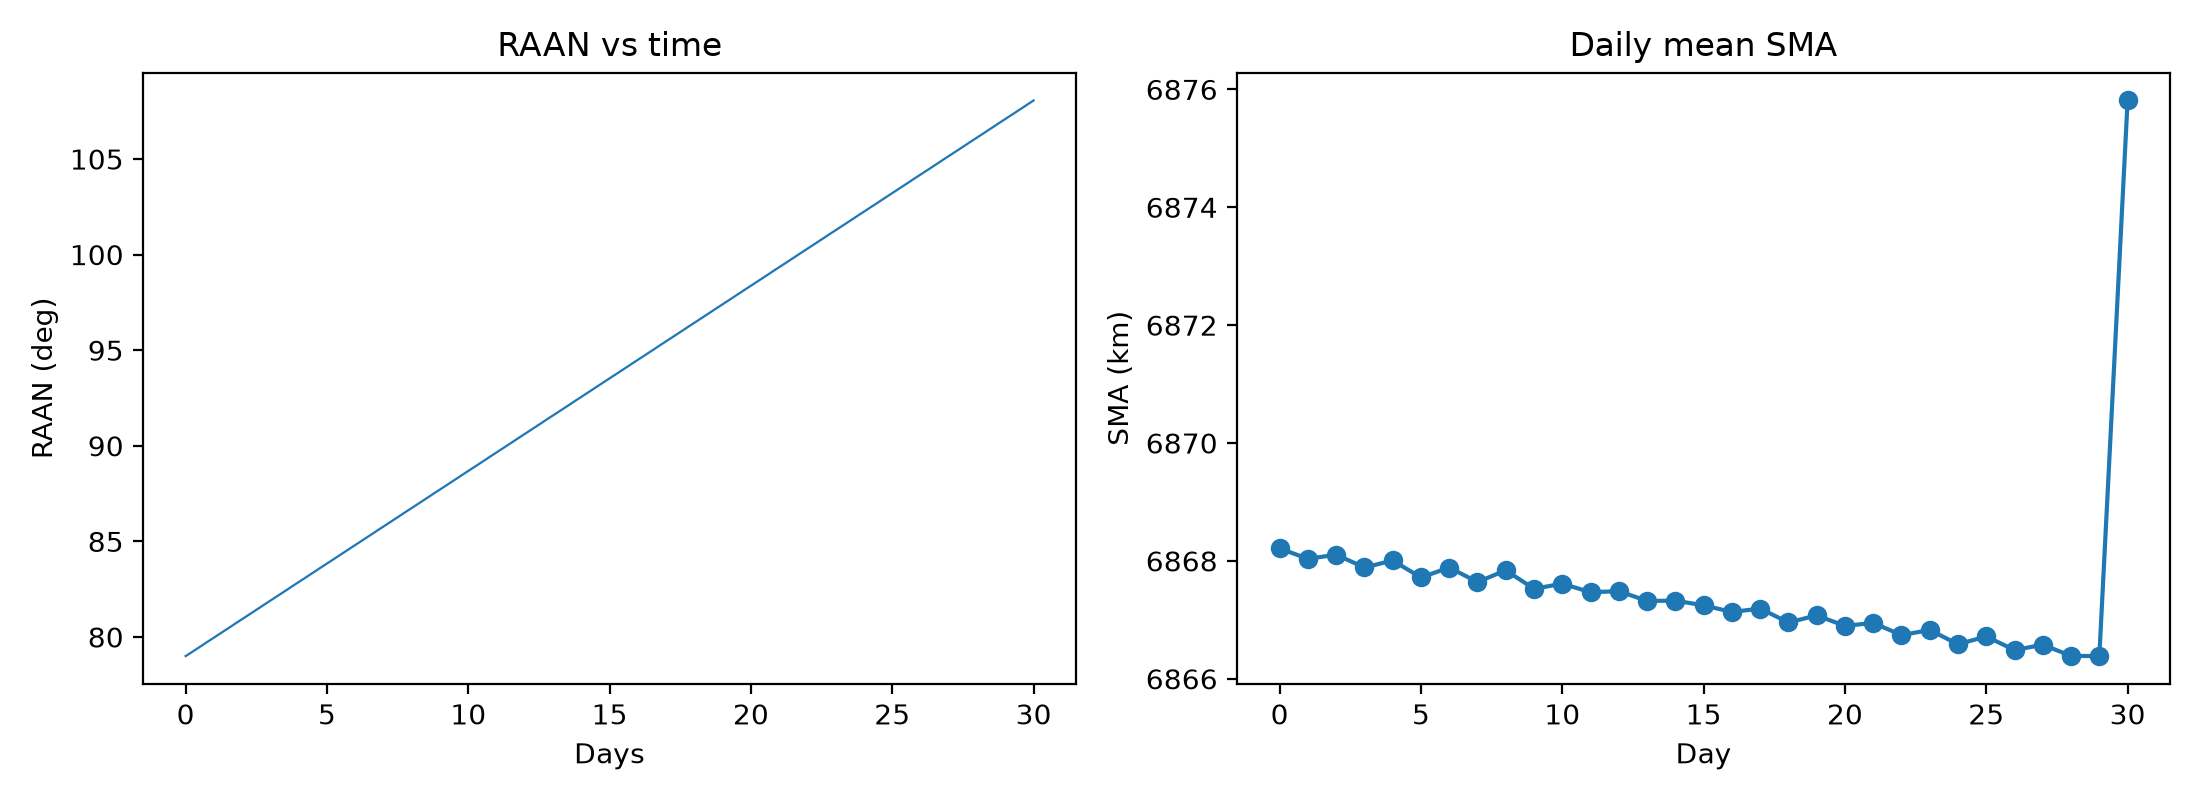
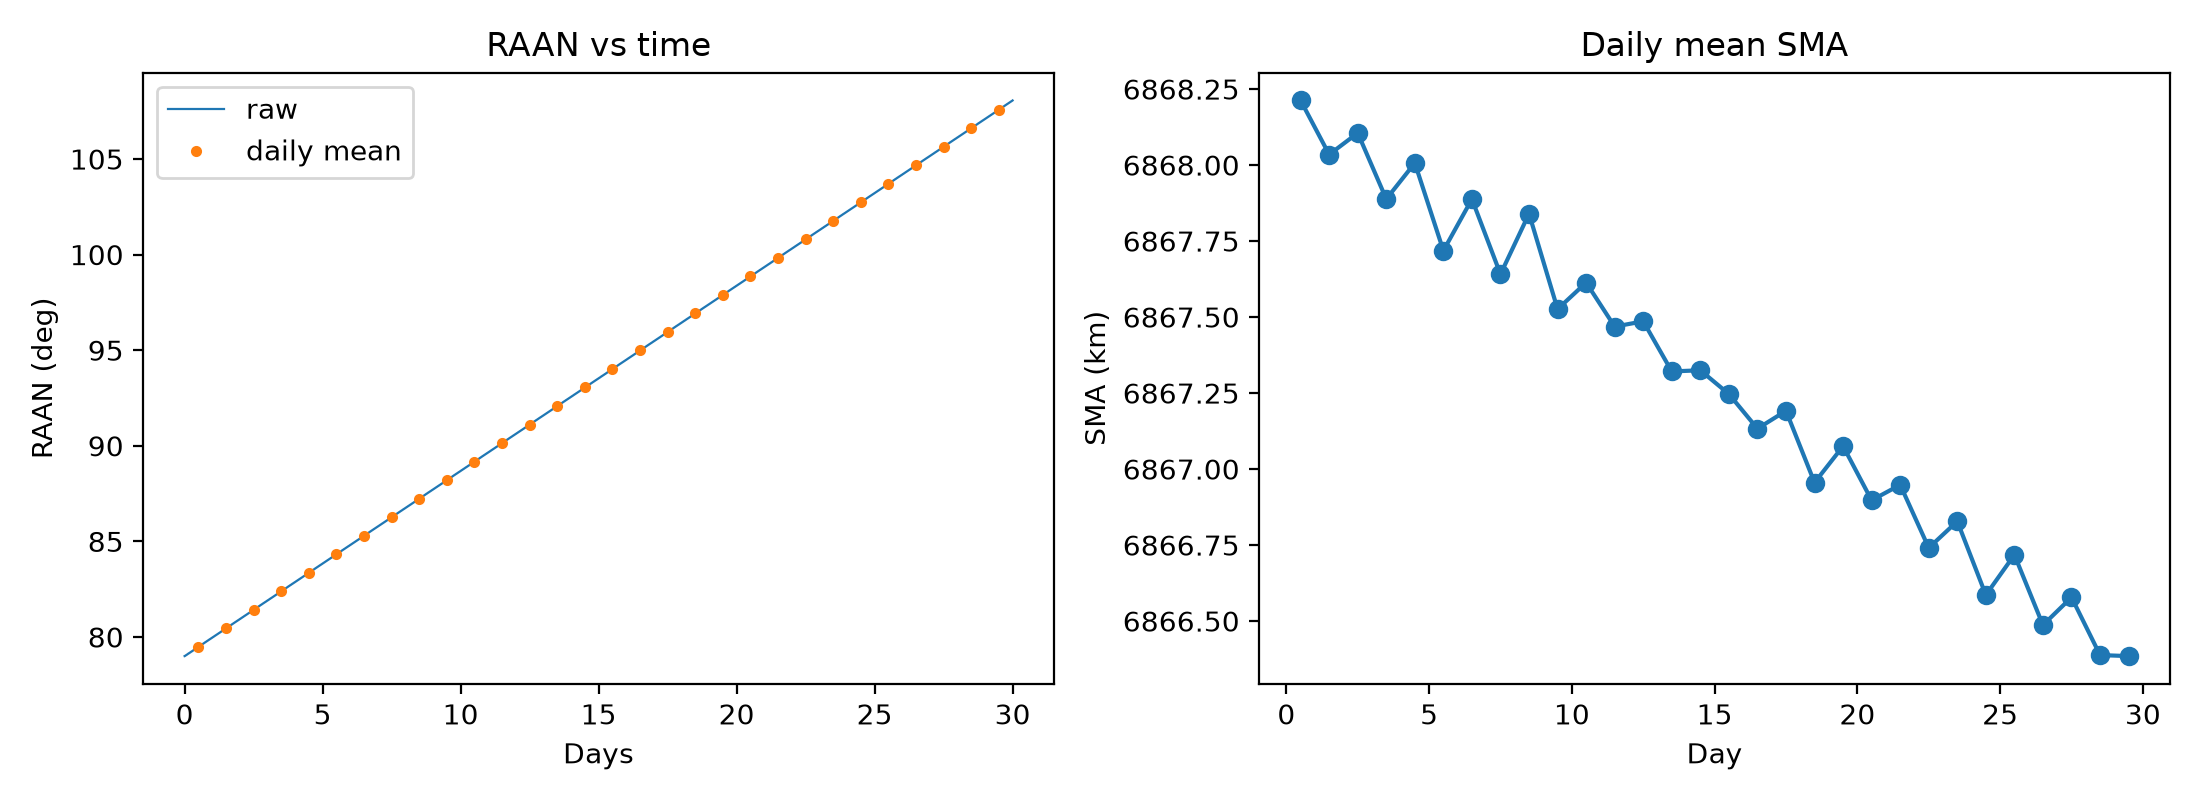
Add 30-day results and eclipse analysis

diff --git a/src/plot_results.py b/src/plot_results.py
@@ -1,17 +1,23 @@
 import pandas as pd, numpy as np, matplotlib.pyplot as plt
+
 df = pd.read_csv('results/orbit_report.txt', sep=r'\s+')
 df.columns = ['days','alt','raan','sma','inc','ecc']
 
-slope, _ = np.polyfit(df.days, df.raan, 1)
-print('RAAN drift (deg/day):', round(slope, 4))      # expect about 0.985
-print('RAAN at end:', round(df.raan.iloc[-1], 2))    # expect about 108.6
+d = df[df.days < 30]                          # full days only
+dd = d.groupby(d.days.astype(int)).mean()     # one row per day
+t = dd.index + 0.5                            # middle of each day
 
-daily = df.groupby(df.days.astype(int)).sma.mean()   # one value per day
-print('SMA lost in 30 days (km):', round(daily.iloc[0] - daily.iloc[-1], 2))
+raan_rate, _ = np.polyfit(t, dd.raan, 1)
+sma_rate, _ = np.polyfit(t, dd.sma, 1)
+
+print('RAAN drift from daily means (deg/day):', round(raan_rate, 4))   # ideal sun-sync: about 0.985
+print('RAAN at end:', round(df.raan.iloc[-1], 2))
+print('SMA change per day (km):', round(sma_rate, 3), '| over 30 days:', round(30*sma_rate, 2))
 
 fig, ax = plt.subplots(1, 2, figsize=(11, 4))
-ax[0].plot(df.days, df.raan, lw=0.8); ax[0].set_title('RAAN vs time')
-ax[0].set_xlabel('Days'); ax[0].set_ylabel('RAAN (deg)')
-ax[1].plot(daily.index, daily.values, marker='o'); ax[1].set_title('Daily mean SMA')
-ax[1].set_xlabel('Day'); ax[1].set_ylabel('SMA (km)')
+ax[0].plot(df.days, df.raan, lw=0.8, label='raw')
+ax[0].plot(t, dd.raan, 'o', ms=3, label='daily mean')
+ax[0].set_title('RAAN vs time'); ax[0].set_xlabel('Days'); ax[0].set_ylabel('RAAN (deg)'); ax[0].legend()
+ax[1].plot(t, dd.sma, marker='o')
+ax[1].set_title('Daily mean SMA'); ax[1].set_xlabel('Day'); ax[1].set_ylabel('SMA (km)')
 plt.tight_layout(); plt.savefig('results/orbit_check.png', dpi=200)

diff --git a/src/elipse_stats.py b/src/elipse_stats.py
@@ -1,0 +1,16 @@
+import re, pandas as pd
+pat = re.compile(r'(\d{2} \w{3} \d{4} [\d:.]+)\s+(\d{2} \w{3} \d{4} [\d:.]+)\s+([\d.]+)\s+Earth\s+(\w+)\s+(\d+)\s+([\d.]+)')
+rows = []
+with open('results/EclipseLocator1.txt') as f:
+    for line in f:
+        m = pat.search(line)
+        if m:
+            rows.append(dict(start=pd.to_datetime(m.group(1)), event=int(m.group(5)), total=float(m.group(6))))
+ev = pd.DataFrame(rows)
+orbits = ev.groupby('event').agg(start=('start', 'min'), total=('total', 'first'))
+orbits = orbits.iloc[1:-1]                  # drop partial first and last events
+period = orbits.start.diff().dt.total_seconds().median()
+print('Mean eclipse per orbit (min):', round(orbits.total.mean()/60, 2))
+print('Shortest / longest (min):', round(orbits.total.min()/60, 2), round(orbits.total.max()/60, 2))
+print('Orbit period (min):', round(period/60, 2))
+print('Sunlit fraction (%):', round(100*(1 - orbits.total.mean()/period), 1))

diff --git a/README.md b/README.md
@@ -1,6 +1,6 @@
 # 500 km Sun-Synchronous CubeSat Orbit: Mission Analysis in GMAT
 
-![Ground track](images\ground_track.png.png)
+![Ground track](images/ground_track.png)
 
 ## Objective
 Design and analyse a low Earth orbit for a 3U CubeSat (4 kg) in NASA's GMAT.
@@ -9,7 +9,7 @@ satellite spends in Earth's shadow, and how long it stays in orbit
 before atmospheric drag brings it down.
 
 ## Method
-- Tool: GMAT R2025a, with Python (pandas, matplotlib) for plots
+- Tools: GMAT R2025a, Python (pandas, numpy, matplotlib)
 - Orbit: 500 km altitude, inclination 97.4 deg, eccentricity 0.001, RAAN 79 deg
 - Spacecraft: mass 4 kg, drag area 0.03 m2, Cd 2.2, Cr 1.3
 - Force model: Earth gravity JGM-2 (8x8), JacchiaRoberts drag,
@@ -19,11 +19,13 @@ before atmospheric drag brings it down.
 ## Results
 | Check | Result |
 |---|---|
-| RAAN drift | [X] deg/day (expected about 0.985) |
-| SMA loss in 30 days | [X] km |
-| Eclipse per orbit | [X] min ([X]% sunlit) |
+| RAAN drift | 0.969 deg/day (ideal sun-synchronous: 0.986) |
+| SMA loss in 30 days | 1.85 km |
+| Eclipse per orbit | 34.4 min (range 34.0 to 34.6) |
+| Orbit period | 94.5 min |
+| Sunlit fraction | 63.6% |
 
-Orbital lifetime from 120 km re-entry:
+Orbital lifetime (time to reach 120 km altitude):
 
 | Altitude | Quiet sun (F10.7 = 100) | Active sun (F10.7 = 200) |
 |---|---|---|
@@ -33,23 +35,35 @@ Orbital lifetime from 120 km re-entry:
 
 ![RAAN and SMA](results/orbit_check.png)
 
-The orbit is sun-synchronous because Earth's equatorial bulge slowly turns the orbit plane at [X] deg/day in the simulation. This matches the Earth's motion around the Sun (about 0.985 deg/day), so the satellite crosses each latitude at the same local solar time every day and gets steady lighting, which is useful for imaging. Atmospheric drag slowly lowers the orbit, and since the air thins out quickly with height, a satellite at 400 km re-enters much sooner than one at 600 km. Strong solar activity heats and expands the upper atmosphere, which increases drag and shortens the lifetime further, so lifetime is best given as a range.
+Earth's equatorial bulge turns the orbit plane at 0.969 deg/day in the
+simulation, close to the 0.986 deg/day needed to follow the Sun (about 1.7%
+lower), so the satellite crosses each latitude at nearly the same local solar
+time every day. The satellite spends about 34 minutes of each 94.5-minute
+orbit in Earth's shadow, so it is sunlit about 64% of the time, which sets the
+solar power budget. Atmospheric drag slowly lowers the orbit, and since the air
+thins out quickly with height, a satellite at 400 km re-enters much sooner than
+one at 600 km. Strong solar activity heats and expands the upper atmosphere,
+which increases drag and shortens the lifetime further, so lifetime is best
+given as a range.
 
 ## How to reproduce
 1. Open `gmat/flagship_500km.script` in GMAT and press Run
 2. Copy the report files from GMAT's output folder into `results/`
 3. `pip install pandas numpy matplotlib`
-4. `python src/plot_results.py`
+4. `python src/plot_results.py` and `python src/eclipse_stats.py`
 
 ## Limitations
 - Constant drag area and Cd (no attitude model)
 - Constant solar flux values, real solar activity varies
+- RAAN drift is about 1.7% below the ideal value; the cause was not isolated
 - Lifetime depends strongly on solar activity, so results are a range
 
 ## Files
 - `gmat/`: GMAT script
-- `src/plot_results.py`: analysis and plots
+- `src/plot_results.py`: RAAN and SMA analysis, plots
+- `src/eclipse_stats.py`: eclipse statistics
 - `results/`: reports and plots
+- `images/`: GMAT screenshots
 - `docs/report.pdf`: full report
 
 ## Author
